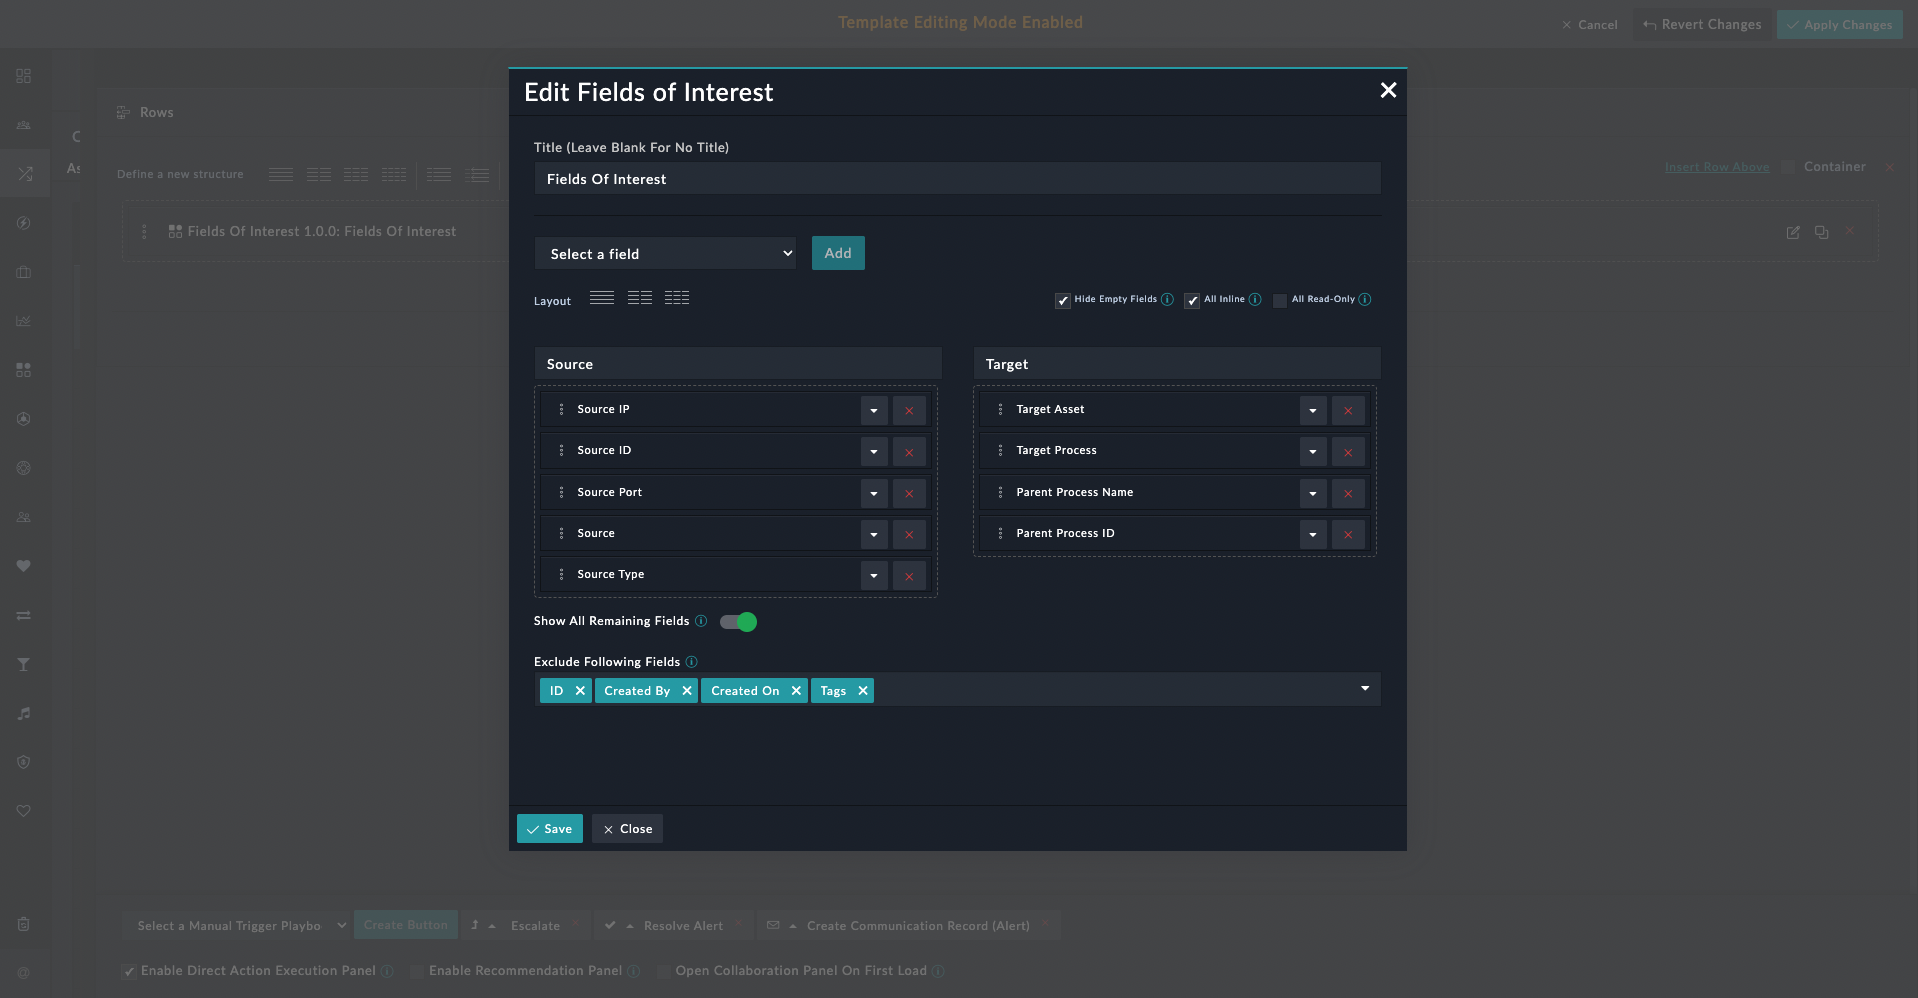
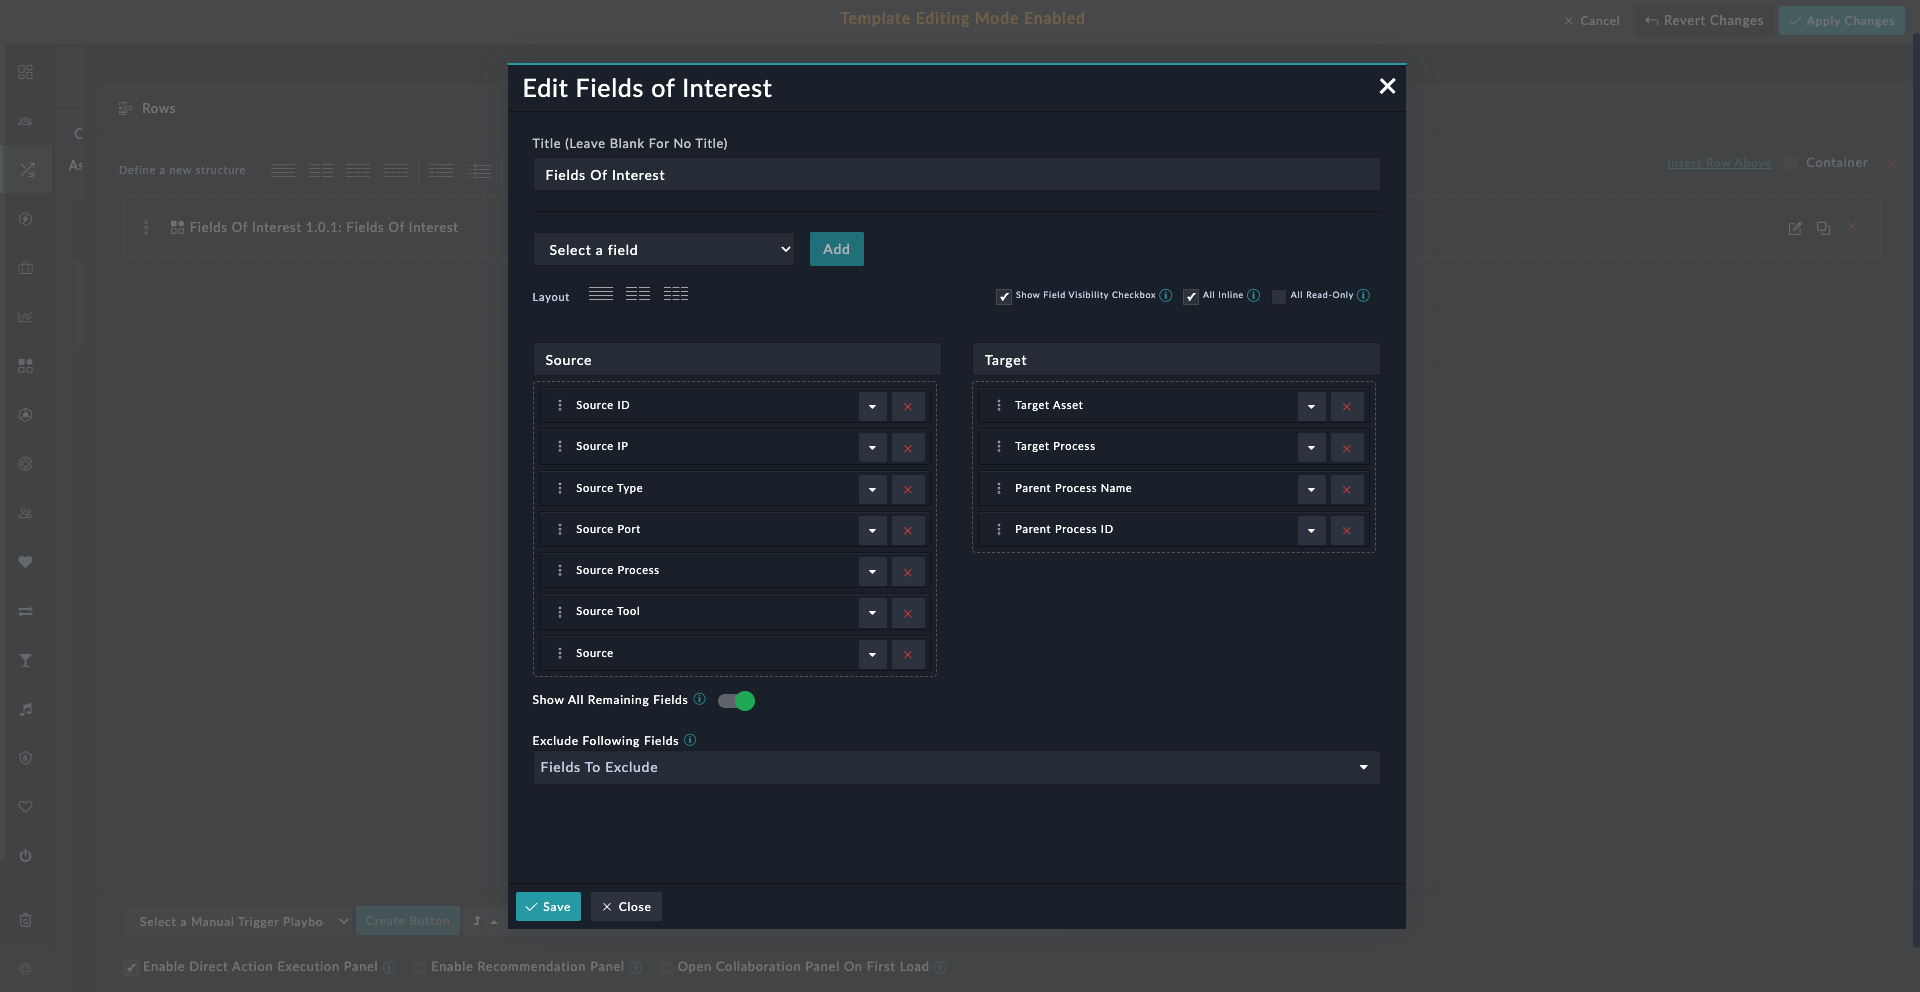
Merge Release/1.0.1 to develop

diff --git a/widget/view.html b/widget/view.html
@@ -1,8 +1,7 @@
-<div class="widget widget-container chart">
+<div class="widget widget-container ">
     <div class="display-flex-space-between margin-chart">
-        <div class="padding-right-0 padding-left-0 widget-dashboard-title-width"
-            data-ng-class="(page === 'dashboard' || page === 'reporting') ? 'widget-dashboard-title-width' : 'widget-title-width'">
-            <h5 class="margin-top-0 margin-bottom-0 text-overflow ng-binding">{{ config.title }}</h5>
+        <div class="padding-right-0 padding-left-0 widget-dashboard-title-width">
+            <h5 class="custom-label-size margin-bottom-0 section-border padding-left-md">{{ config.title }}</h5>
         </div>
         <div class="padding-right-0 padding-left-0"
             data-ng-class="(page === 'dashboard' || page === 'reporting') ? 'widget-dashboard-actions-width' : 'widget-actions-width'">
@@ -14,14 +13,14 @@
 
     <div data-ng-hide="collapsed">
 
-        <div class="padding-left-lg padding-bottom-lg">
+        <div class="padding-bottom-lg">
             <div class="row section-widget edit-form-widget">
                 <cs-spinner data-ng-hide="initialized" data-show-background="true"></cs-spinner>
-                <div class="display-block margin-left-md padding-top-md padding-left-sm">
+                <div data-ng-if="config.hideEmptyFieldsCheckbox" class="display-block margin-left-md padding-top-md padding-left-sm">
                     <div class="checkbox margin-top-0">
                         <label for="hideEmptyFields">
-                            <input class="margin-top-0" type="checkbox" id="hideEmptyFields" data-ng-model="config.hideEmptyFields" data-ng-change="init()"
-                                 />Hide Empty Fields
+                            <input class="margin-top-0 "  type="checkbox" id="hideEmptyFields" data-ng-model="config.hideEmptyFields" data-ng-change="init()"/>
+                            <span class="control-label" style="margin-top: -3px;"> Hide Empty Fields </span>
                             <span
                                 data-uib-tooltip="If checked all empty fields will be hidden."
                                 data-tooltip-append-to-body="true"><i
@@ -31,7 +30,7 @@
                 </div>
                 <div class="row" data-ng-repeat="row in rows" data-ng-show="initialized" data-ng-class="{'no-widget-title': !config.title && $first}">
                   <div data-ng-repeat="column in ::row.columns" data-ng-class="::column.style" class="{{row.style}}">
-                    <p class="padding-top-lg">{{column.columnTitle}}</p>
+                    <p class="control-label text-underline padding-top-md" style="font-size: 12px !important; margin-bottom: 0px !important;">{{column.columnTitle}}</p>
                     <div data-ng-repeat="field in ::column.fields">
                       <div data-cs-editable-field data-field="field.fieldData" data-mode="row.mode" data-field-options="field.options" submit="submitField" data-change-method="notifyFieldChange" data-disabled="!field.fieldData.editable"></div>
                     </div>

diff --git a/widget/edit.controller.js b/widget/edit.controller.js
@@ -2,15 +2,16 @@
 (function () {
     angular
         .module('cybersponse')
-        .controller('editFieldsOfInterest100Ctrl', editFieldsOfInterest100Ctrl);
+        .controller('editFieldsOfInterest101Ctrl', editFieldsOfInterest101Ctrl);
 
-    editFieldsOfInterest100Ctrl.$inject = ['$scope', '$uibModalInstance', 'config', '_', '$state', 'Entity', 'widget', 'ViewTemplateService'];
+    editFieldsOfInterest101Ctrl.$inject = ['$scope', '$uibModalInstance', 'config', '_', '$state', 'Entity', 'widget', 'ViewTemplateService', 'CommonUtils'];
 
-    function editFieldsOfInterest100Ctrl($scope, $uibModalInstance, config, _, $state, Entity,  widget, ViewTemplateService) {
+    function editFieldsOfInterest101Ctrl($scope, $uibModalInstance, config, _, $state, Entity,  widget, ViewTemplateService, CommonUtils) {
         $scope.cancel = cancel;
         $scope.save = save;
         $scope.widget = widget;
         $scope.config = config;
+        $scope.config.hideEmptyFieldsCheckbox = !CommonUtils.isUndefined($scope.config.hideEmptyFieldsCheckbox) ? $scope.config.hideEmptyFieldsCheckbox : true;
         $scope.config.rows = $scope.config.rows || [{
             columns: [{
                 fields: []

diff --git a/widget/edit.html b/widget/edit.html
@@ -64,10 +64,10 @@
                             <div class="pull-right margin-right-md" data-ng-show="widget.name === 'fieldsOfInterest'">
                                 <div class="checkbox margin-top-0">
                                     <label for="hideEmptyFields">
-                                        <input type="checkbox" id="hideEmptyFields" data-ng-model="config.hideEmptyFields"
-                                             />Hide Empty Fields
+                                        <input type="checkbox" id="hideEmptyFields" data-ng-model="config.hideEmptyFieldsCheckbox"
+                                             />Show Field Visibility Checkbox
                                         <span
-                                            data-uib-tooltip="If checked all empty fields will be hidden."
+                                            data-uib-tooltip="To show the 'Hide Empty Fields' Checkbox in detailed view of the module"
                                             data-tooltip-append-to-body="true"><i
                                                 class="icon icon-information font-Size-13"></i></span>
                                     </label>

diff --git a/widget/view.controller.js b/widget/view.controller.js
@@ -2,11 +2,11 @@
 (function () {
     angular
         .module('cybersponse')
-        .controller('fieldsOfInterest100Ctrl', fieldsOfInterest100Ctrl);
+        .controller('fieldsOfInterest101Ctrl', fieldsOfInterest101Ctrl);
 
-    fieldsOfInterest100Ctrl.$inject = ['$scope', '$state', 'Entity', 'FormEntityService', 'Modules', 'viewTemplate', '$timeout'];
+    fieldsOfInterest101Ctrl.$inject = ['$scope', '$state', 'Entity', 'FormEntityService', 'Modules', 'viewTemplate', '$rootScope', '$timeout'];
 
-    function fieldsOfInterest100Ctrl($scope, $state, Entity, FormEntityService, Modules, viewTemplate, $rootScope, $timeout) {
+    function fieldsOfInterest101Ctrl($scope, $state, Entity, FormEntityService, Modules, viewTemplate, $rootScope, $timeout) {
         $scope.id = $state.params.id;
         $scope.module = $state.params.module;
         $scope.updateFieldValues = updateFieldValues;

diff --git a/docs/setup.md b/docs/setup.md
@@ -1,5 +1,5 @@
 | [Home](../README.md) |
-|--------------------------------------------|
+|----------------------|
 
 # Installation
 1. To install a widget, click **Content Hub** > **Discover**.
@@ -14,12 +14,16 @@
 
 ## Fields of Interest Widget Settings
 
-| Fields                                   | Description                              |
-| ---------------------------------------- | ---------------------------------------- |
-| Title                                    | Specify the heading or title of the visual depiction of each record node in the group. |
-| Select Field Dropdown                    | Select the fields to display on the the detailed view page.|
-| Column Title                             | Give a sutaible column title for the select fields.|
-| Show All Remaining Fields                | Checkbox, if enabled, an additional column 'Others' will be created with the remaining fields.|
-| Hide Empty fields                        | To hide all the empty fields. |
-| All inline                               | If not checked, all fields will display an edit button instead of being click-to-edit.|  
-| All Read-Only                            | If checked, all fields will display as read-only regardless of permissions.|  
+| Fields                         | Description                                                                                                                                                                                                                                                                                                                                                                                                                |
+|--------------------------------|----------------------------------------------------------------------------------------------------------------------------------------------------------------------------------------------------------------------------------------------------------------------------------------------------------------------------------------------------------------------------------------------------------------------------|
+| Title                          | Specify the heading or title of the visual depiction for the group of fields displayed in this widget.                                                                                                                                                                                                                                                                                                                     |
+| Select a field Dropdown        | Select the fields that you want to include in this widget to be displayed on the the detailed view of the module records.                                                                                                                                                                                                                                                                                                  |
+| Layout                         | Select the layout of the widget, i.e., choose between a single column (default), 2-column structure, or a 3-column structure.                                                                                                                                                                                                                                                                                              |
+| Show Field Visibility Checkbox | To show the 'Hide Empty Fields' Checkbox in detailed view of the module.                                                                                                                                                                                                                                                                                                                                                   |
+| All Inline                     | Select this option to make all fields within the widget as inline fields, i.e., fields that can be edited using click-to-edit. If this option is cleared, then all fields display an edit button for editing purposes.                                                                                                                                                                                                     |
+| All Read-Only                  | Select this option to make all fields within the widget as read-only, irrespective of assigned permissions.                                                                                                                                                                                                                                                                                                                |
+| Column Title                   | (Optional) Specify a suitable column title for the group of selected fields.                                                                                                                                                                                                                                                                                                                                               |
+| Show All Remaining Fields      | A toggle button that when enabled, adds an additional column named 'Others' that contains all the remaining fields of the module. <br /> If you enable **Show All Remaining Fields**, then from the **Exclude Following Fields** drop-down, you can select fields that you do not want to display in the 'Others' column, i.e., these fields will not be displayed in this widget on the detail view of the module record. |
+
+| [Usage](./usage.md) |
+|---------------------|

diff --git a/docs/usage.md b/docs/usage.md
@@ -1,26 +1,64 @@
 | [Home](../README.md) |
-|--------------------------------------------|
+|----------------------|
 
 # Usage
 
-**Fields of Interest Widget Edit View**
+The Fields Of Interest widget displays selected fields in the detailed view of a module with the following additional features:
 
-![](./media/edit-fields-of-interest.png)
+- Display fields in the detail view of a module record regardless of any visibility constraints
 
-1. Update a respective module's detailed view SVT (System View Template) to add this widget.
-2. Specify widget tile and also add fields of interest.
-3. Select column layout and specify column title, eg. 'Source' and 'Target'.
-4. To arrange fields, drag and drop them to a respective column.
-5. To include all remaining fields, use "Show all remaining fields" toggle option. It will create a new column called *Others* and it will add all remaining fields in it.
-6. You can also select fields to exclude from the *Others* column.
+   >For example, a visibility condition on the *Source Port* field of the **Alert** module may display it only if the *Alert Type* is set *Brute Force Attempt*. This widget can still display the *Source Port* field for all alert types.
 
+- Ability to hide or show record fields that are empty.
 
-**Widget**
+You can configure this widget separately for each module, i.e., the modification of this widget done for one module is independent of other modules.
 
-To hide empty fields from detailed view use *Hide Empty Fields* checkbox.
+## Fields of Interest Widget Views
 
-Detailed view.
+To add this widget to the detail view of a module record, perform the following steps:
+
+1. Click to open the detailed view of a record, for example an alert.
+
+2. Click **Edit Template** to display its System View Template (SVT).
+
+3. Click **Add Widget** and select the **Fields Of Interest** widget.
+
+4. Use the **Edit Fields of Interest** modal to customize the widget as per your requirements. For more information on the widget fields, refer to the [Fields of Interest Widget Settings](./setup.md#fields-of-interest-widget-settings) section.
+
+   ![](./media/edit-fields-of-interest.png)
+
+   1. Enter the title of this widget
+    
+   2. Select a column layout under **Layout**. You can select from following options:
+      - Single-column structure
+      - 2-column structure
+      - 3-column structure
+
+   3. Select the fields to be added to this widget and click the **Add** button.
+   
+   4. To arrange fields, drag-and-drop them to respective columns.
+
+      - Select the checkbox **Show Field Visibility Checkbox** to display the *Hide Empty Fields* checkbox in detailed view of the module.
+      - Select the checkbox **All Inline** to make the fields editable.
+      - Select the checkbox **All Read-Only** to display the fields as read-only.
+
+   5. Enable the **Show all Remaining Fields** toggle to include all remaining fields of the module and create a new column called *Others* in the detail view of the record.
+
+   6. Select fields that you want to exclude from the *Others* column from the **Exclude Following Fields** drop-down.
+
+5. Click **Save** to save the changes made to the widget
+
+6. Click **Apply Changes** to add the widget to the detail view of the module's record.
+
+### Fields of Interest Widget View Panel Views
+
+The following image displays the detailed view of an alert record when the **Hide Empty Fields** checkbox is selected.
+
+![](./media/detailed-view-hidden.png)
+
+The following image displays the detailed view of an alert record when the **Hide Empty Fields** checkbox is cleared.
+
 ![](./media/detailed-view.png)
 
-Detailed view with *Hide Empty Fields* checkbox checked.
-![](./media/detailed-view-hidden.png)
+| [Installation](./setup.md#installation) | [Configuration](./setup.md#configuration) |
+|-----------------------------------------|-------------------------------------------|

diff --git a/README.md b/README.md
@@ -1,6 +1,6 @@
 ## Release Information
 
-- **Version**: 1.0.0
+- **Version**: 1.0.1
 
 - **Certified**: No
 
@@ -10,13 +10,14 @@
 
 - **Applicable**: View Panel
 
+- [Release Notes](./widget/release_notes.md)
+
 
 ## Overview
-Fields of interest widget displays selected fields for an individual record, in its detail view, in a module, regardless of the visiblity constraint. The widget defines what information users require to add while creating a record. You can modify the widget of each module, independently of other modules.
 
+**Fields of Interest** widget helps display selected fields in the detail view of an individual module record, regardless of any visibility constraint that might have been set. This widget also helps choose whether to hide or show empty record fields. This widget is configurable separately for each module.
 
 ## Next Steps
 
-| [Installation](./docs/setup.md#installation) | [Configuration](./docs/setup.md#configuration) | [Usage](./docs/usage.md) | [Contents](./docs/contents.md) |
-|----------------------------------------------|------------------------------------------------|--------------------------|--------------------------------|
-
+| [Installation](./docs/setup.md#installation) | [Configuration](./docs/setup.md#configuration) | [Usage](./docs/usage.md) |
+|----------------------------------------------|------------------------------------------------|--------------------------|

diff --git a/widget/release_notes.md b/widget/release_notes.md
@@ -1,0 +1,9 @@
+# What's New
+
+## Enhancements
+
+- Renamed **Hide Empty fields** checkbox to **Show Field visibility**
+
+## Bug fixes
+
+- Fixed an issue where a drop-down field added to the widget returned to its originally selected value i.e. the selected value in the picklist did not persist
